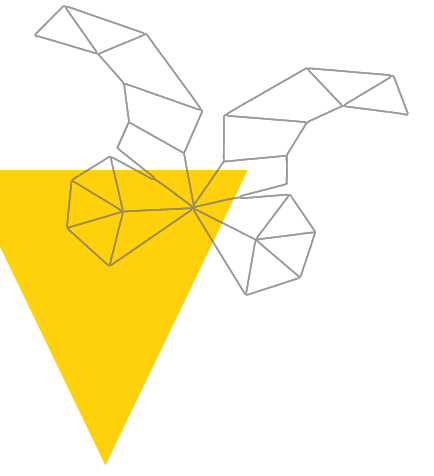
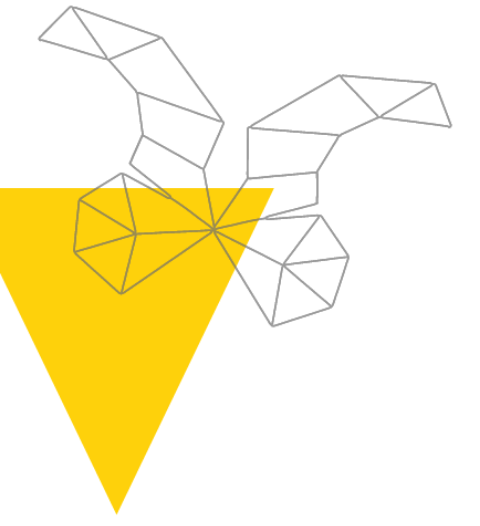
fix

diff --git a/src/app/screens/contact/contact.component.html b/src/app/screens/contact/contact.component.html
@@ -9,7 +9,8 @@
       <img src="/assets/img/butterfly-triangle-sm_360.png" alt="Triangle graphic">
     </picture>
   </div>
-  <h1 role="heading" class="display-6 text-primary fw-bold text-center py-md-5 py-3">Contact Me</h1>
+  <h1 role="heading" class="animate__animated animate__bounce display-6 text-primary fw-bold text-center py-md-5 py-3">
+    Contact Me</h1>
 </div>
 <section class="my-md-5 my-3 pb-md-2 pb-1">
   <h2 role="heading" class="text-secondary fw-semibold text-center">Send an Email</h2>
@@ -63,14 +64,14 @@
         <br>
         Stay connected and follow my projects and professional news.
       </p>
-      <div>
-        <a role="button" class="icon-link" target="blank" href="https://www.github.com/vanessaidenny/"
-          aria-label="Go to Github portfolio"><i class="bi bi-github" aria-hidden="true"></i></a>
-        <a role="button" class="icon-link" target="blank" href="https://www.linkedin.com/in/vanessaidenny"
-          aria-label="Go to Linkedin portfolio"><i class="bi bi-linkedin" aria-hidden="true"></i></a>
-        <a role="button" class="icon-link" target="blank" href="https://www.codepen.io/vanessaidenny"
+      <div class="d-flex justify-content-center">
+        <a role="button" class="icon-link fs-2" target="blank" href="https://www.github.com/vanessaidenny/"
+          aria-label="Go to Github portfolio"><i class="fa fa-brands fa-github" aria-hidden="true"></i></a>
+        <a role="button" class="icon-link fs-2" target="blank" href="https://www.linkedin.com/in/vanessaidenny"
+          aria-label="Go to Linkedin portfolio"><i class="fa fa-brands fa-linkedin" aria-hidden="true"></i></a>
+        <a role="button" class="icon-link fs-2" target="blank" href="https://www.codepen.io/vanessaidenny"
           aria-label="Go to Codepen portfolio"><i class="fa fa-brands fa-codepen"></i></a>
       </div>
     </div>
-  </div>
+  </div>z
 </section>

diff --git a/src/app/screens/home/home.component.html b/src/app/screens/home/home.component.html
@@ -1,24 +1,24 @@
 <div class="py-3 py-md-5">
-  <h1 role="heading" class="display-6 text-primary fw-bold text-center pt-md-5 pt-3">Hi! I'm Vanessa Isabela Denny
+  <h1 role="heading" class="animate__animated animate__bounce display-6 text-primary fw-bold text-center pt-md-5 pt-3">
+    Hi! I'm Vanessa Isabela Denny
   </h1>
 </div>
-<section class="my-md-5 my-3 pb-md-5 pb-3">
+<section class="about-section my-md-5 my-3 pb-md-5 pb-3">
   <div class="container-fluid text-center">
     <div class="row">
       <div class="col d-flex">
         <div class="position-absolute">
           <picture class="triangle-home">
-            <source srcset="/assets/img/butterfly-triangle_278.png,
+            <source srcset="/assets/img/group_278.png,
                           /assets/img/butterfly-triangle_360.png 2x" media="(max-width: 480px)">
             <source srcset="/assets/img/butterfly-triangle_360.png,
                           /assets/img/butterfly-triangle_480.png 2x,
                           /assets/img/butterfly-triangle_720.png 3x" media="(max-width: 780px)">
-            <img src="/assets/img/butterfly-triangle.png" srcset="/assets/img/butterfly-triangle.svg"
-              alt="Triangle graphic">
+            <img src="/assets/img/group.png" srcset="/assets/img/group.svg" alt="Triangle graphic">
           </picture>
         </div>
       </div>
-      <div class="col-md-6 col-sm-8">
+      <div class="col-md-6 col-sm-8 pe-5">
         <h2 role="heading" class="text-secondary fw-semibold">What drives my work ethic is building products that are
           user
           centered</h2>
@@ -35,7 +35,7 @@
     </div>
   </div>
 </section>
-<section class="bg-white py-md-5 py-4">
+<section class="bg-white py-md-5 py-4 px-5">
   <div class="container-fluid text-center">
     <div class="row pb-md-4 pb-1">
       <div class="col-md col-sm">

diff --git a/src/app/screens/portfolio/portfolio.component.html b/src/app/screens/portfolio/portfolio.component.html
@@ -2,14 +2,15 @@
   <div class="position-absolute">
     <picture class="triangle-home">
       <source srcset="/assets/img/butterfly-triangle-sm_278.png,
-                    /assets/img/butterfly-triangle-sm_360.png 2x" media="(max-width: 480px)">
+                    /assets/img/butterfly-triangle-sm_360.png 2x,
+                    /assets/img/butterfly-triangle-sm_480.png 3x" media="(max-width: 580px)">
       <source srcset="/assets/img/butterfly-triangle-sm_360.png,
-                    /assets/img/butterfly-triangle-sm_480.png 2x,
-                    /assets/img/butterfly-triangle-sm_720.png 3x" media="(max-width: 780px)">
-      <img src="/assets/img/butterfly-triangle-sm_360.png" alt="Triangle graphic">
+                    /assets/img/butterfly-triangle-sm_480.png 2x" media="(max-width: 780px)">
+      <img src="/assets/img/butterfly-triangle-sm.png" alt="Triangle graphic">
     </picture>
   </div>
-  <h1 role="heading" class="display-6 text-primary fw-bold text-center py-md-5 py-3">My Portfolio</h1>
+  <h1 role="heading" class="animate__animated animate__bounce display-6 text-primary fw-bold text-center py-md-5 py-3">
+    My Portfolio</h1>
 </div>
 <section class="my-md-5 my-3">
   <h2 role="heading" class="text-secondary fw-semibold text-center">Skills</h2>

diff --git a/src/app/header/header.component.html b/src/app/header/header.component.html
@@ -30,11 +30,11 @@
         <span class="text-secondary fw-bold">Vanessa Isabela Denny</span>
       </a>
     </div>
-    <div class="collapse navbar-collapse justify-content-end" id="navbarSupportedContent">
+    <div class="collapse navbar-collapse justify-content-end align-items-baseline" id="navbarSupportedContent">
       <a role="button" class="icon-link" target="blank" href="https://www.github.com/vanessaidenny/"
-        aria-label="Go to Github portfolio"><i class="bi bi-github" aria-hidden="true"></i></a>
+        aria-label="Go to Github portfolio"><i class="fa fa-brands fa-github" aria-hidden="true"></i></a>
       <a role="button" class="icon-link" target="blank" href="https://www.linkedin.com/in/vanessaidenny"
-        aria-label="Go to Linkedin portfolio"><i class="bi bi-linkedin" aria-hidden="true"></i></a>
+        aria-label="Go to Linkedin portfolio"><i class="fa fa-brands fa-linkedin" aria-hidden="true"></i></a>
       <a role="button" class="icon-link" target="blank" href="https://www.codepen.io/vanessaidenny"
         aria-label="Go to Codepen portfolio"><i class="fa fa-brands fa-codepen"></i></a>
     </div>

diff --git a/src/app/screens/about/about.component.html b/src/app/screens/about/about.component.html
@@ -9,7 +9,8 @@
       <img src="/assets/img/butterfly-triangle-sm_360.png" alt="Triangle graphic">
     </picture>
   </div>
-  <h1 role="heading" class="display-6 text-primary fw-bold text-center py-md-5 py-3">About Me</h1>
+  <h1 role="heading" class="display-6 text-primary fw-bold text-center py-md-5 py-3 animate__animated animate__bounce">
+    About Me</h1>
 </div>
 <section class="my-md-5 my-3 pb-md-5 pb-3">
   <div class="container-fluid text-center">

diff --git a/src/styles.css b/src/styles.css
@@ -33,6 +33,14 @@ button {
 }
 /* End skip links*/
 
+.icon-link {
+  text-decoration: none;
+  margin-left: 25px;
+}
+.icon-link a:first-child {
+  margin-left: 0;
+}
+
 
 /* FOOTER */
 

diff --git a/src/app/screens/contact/contact.component.css b/src/app/screens/contact/contact.component.css
@@ -1,3 +1,9 @@
 hr,.links-text {
   margin: 0 auto;
 }
+
+.icon-link {
+  background-color: white;
+  border-radius: 100%;
+  padding: 15px;
+}
